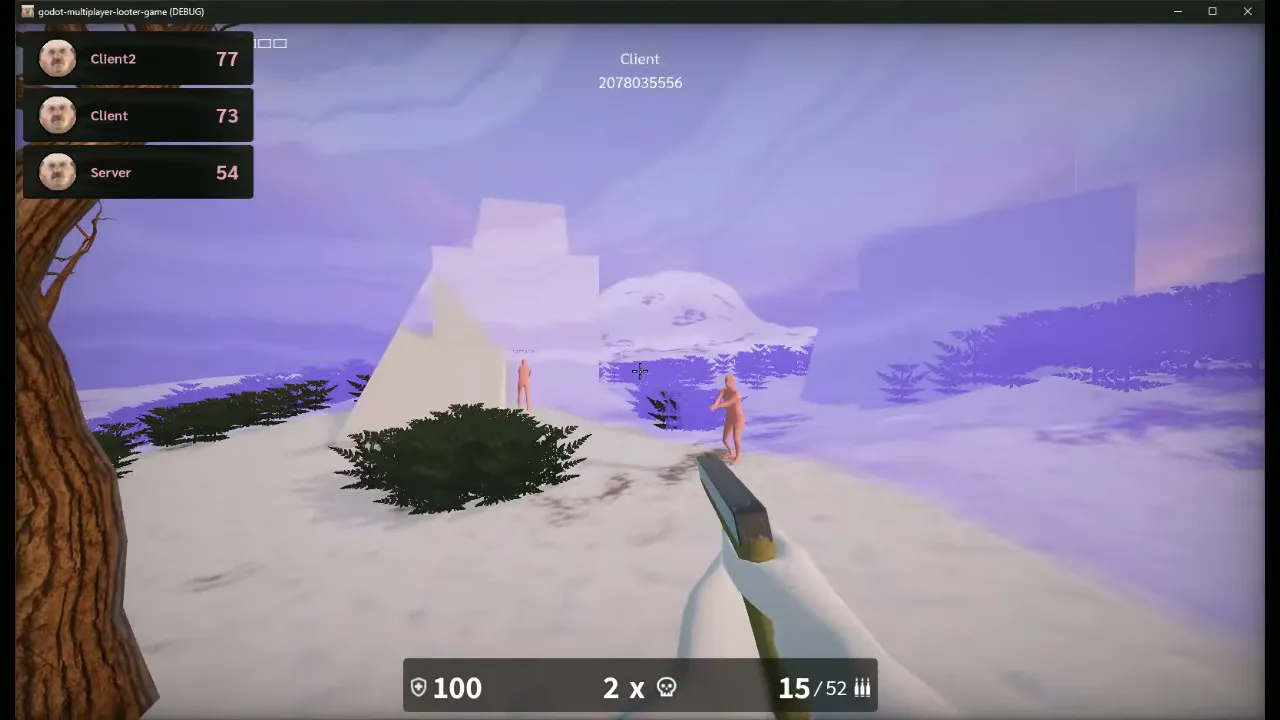
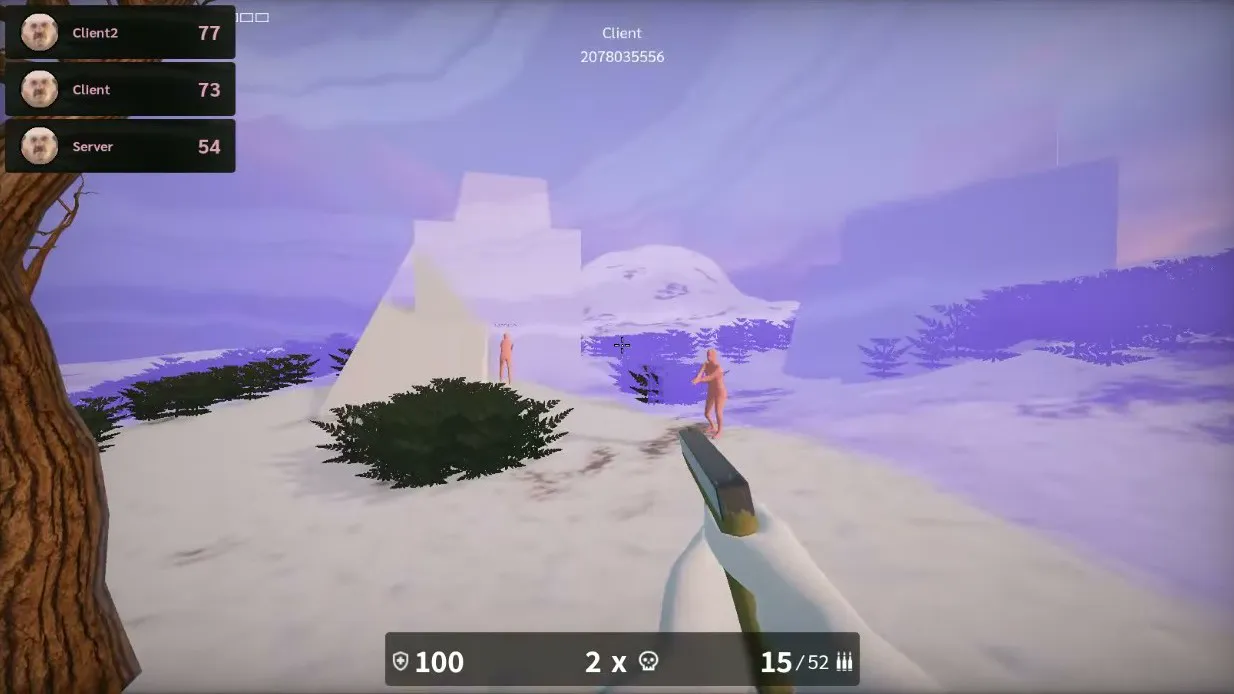
Added texts, small UI changes

diff --git a/src/app.css b/src/app.css
@@ -74,7 +74,7 @@ body::before {
   --color-2: color-mix(in oklch,
       var(--colors-elevation-0),
       var(--colors-secondary) 12%);
-/*
+  /*
   --color-1: oklch(from var(--colors-secondary) 0.25 0.015 h);
   --color-2: oklch(from var(--colors-primary) 0.25 0.015 h); */
 
@@ -82,7 +82,7 @@ body::before {
       var(--color-1) 0%,
       var(--color-2) 100%);
 
-/*   background: oklch(from var(--colors-primary) 0.18 0.015 h); */
+  /*   background: oklch(from var(--colors-primary) 0.18 0.015 h); */
 }
 
 ::selection {
@@ -90,6 +90,18 @@ body::before {
   /* Highlight background */
   color: var(--colors-white, #ffffff);
   /* Selected text color */
+}
+
+li {
+  line-height: 1.5;
+}
+
+ul {
+  margin: 0;
+  padding: 0;
+  margin-top: 0.25em;
+  margin-bottom: 0.75em;
+  padding-left: 2rem;
 }
 
 .app-shell {
@@ -141,31 +153,36 @@ h6,
 }
 
 /* H1 / XXL: 2.341rem (37.45px) → 3.5rem (56px) */
-h1, .h1 {
+h1,
+.h1 {
   font-size: clamp(var(--font-sizes-xxl), 1.814rem + 2.25vw, 3.5rem);
   line-height: 1.1;
 }
 
 /* H2 / XL: 1.73rem (27.68px) → 2.2rem (35.2px) */
-h2, .h2 {
+h2,
+.h2 {
   font-size: clamp(var(--font-sizes-xl), 1.516rem + 0.912vw, 2.2rem);
   line-height: 1.15;
 }
 
 /* H3 / LG: 1.463rem (23.41px) → 1.9rem (30.4px) */
-h3, .h3 {
+h3,
+.h3 {
   font-size: clamp(var(--font-sizes-lg), 1.264rem + 0.848vw, 1.9rem);
   line-height: 1.2;
 }
 
 /* H4 / MD: 1.25rem (20px) → 1.75rem (28px) */
-h4, .h4 {
+h4,
+.h4 {
   font-size: clamp(var(--font-sizes-md), 1.023rem + 0.97vw, 1.75rem);
   line-height: 1.25;
 }
 
 /* H5 / SM: 1rem (16px) → 1.375rem (22px) */
-h5, .h5 {
+h5,
+.h5 {
   font-size: clamp(var(--font-sizes-sm), 0.83rem + 0.728vw, 1.375rem);
   line-height: 1.3;
 }

diff --git a/src/routes/contact/+page.svelte b/src/routes/contact/+page.svelte
@@ -8,7 +8,7 @@
 
 <div class="info-container h-padding">
   <div class="info">
-    <div style="width: 100%; margin-left: 1rem;">
+    <div>
       <h2 class="view-title no-bg">Yhteystiedot</h2>
     </div>
     <ProfileCircle imageSrc={"/images/me (Small).png"} outlined />
@@ -60,21 +60,23 @@
   .contact-buttons {
     container-type: inline-size;
     width: 100%;
-    padding: 0 .5rem;
+    padding: 0 0.5rem;
   }
 
   .find-me-text {
-    width: 100%;
+    /*     width: 100%; */
+    width: max-content;
     padding: 0 1rem;
   }
   .title-buttons-container {
     display: flex;
     flex-direction: column;
+    align-items: center;
     gap: 0.5rem;
     width: 100%;
     > span {
       /*       background-color: green; */
-      width: 100%;
+/*       width: 100%; */
     }
   }
 </style>

diff --git a/src/lib/components/MenuOptions.svelte b/src/lib/components/MenuOptions.svelte
@@ -19,7 +19,7 @@
       </label>
     </div>
   </li>
-  <li class="menu-item">
+<!--   <li class="menu-item">
     <div class="menu-option">
       <label for="animations-checkbox">
         <span>Käytä ääniä</span>
@@ -32,7 +32,7 @@
         <div class="checkbox"></div>
       </label>
     </div>
-  </li>
+  </li> -->
 </ul>
 
 <style>

diff --git a/src/lib/components/DropdownButton.svelte b/src/lib/components/DropdownButton.svelte
@@ -165,8 +165,8 @@
 
   .menu {
     display: none;
-    width: 100vw;
-    max-width: 20rem;
+/*     width: 100vw; */
+    width: clamp(15rem, 30vw + 5rem, 25rem);
     background-color: var(--colors-elevation-2);
     border: 2px solid
       color-mix(

diff --git a/src/lib/config/tags.ts b/src/lib/config/tags.ts
@@ -68,6 +68,11 @@ export const TAG_CONFIG: Record<string, TagConfig> = {
     label: 'MongoDB',
     bg: '#00ed64',
     icon: "Mongodb"
+  },
+  blender: {
+    label: 'Blender',
+    bg: '#ea7600',
+    icon: "Blender"
   }
 };
 

diff --git a/src/routes/projects/[slug]/+page.svelte b/src/routes/projects/[slug]/+page.svelte
@@ -196,6 +196,7 @@
     padding: 1rem;
     border-radius: var(--border-radiuses-lg);
     margin-top: 1rem;
+    margin-bottom: 1rem;
 
     grid-template-columns: 1fr;
     column-gap: 1rem;

diff --git a/src/types/icon-names.d.ts b/src/types/icon-names.d.ts
@@ -2,6 +2,7 @@
 
 export const iconNames = [
   "ArrowNarrowLeft",
+  "Blender",
   "BrandGithub",
   "BrandLinkedin (1)",
   "CaretDown",

diff --git a/src/content/projects/factory.md b/src/content/projects/factory.md
@@ -1,31 +1,116 @@
 ---
 title: "Factory"
 slug: "factory"
-description: "P2P verkkoräiskintäpeli, johon haettu inspiraatiota Source-peleistä."
+description: "P2P-verkkoräiskintäpeli, johon haettu inspiraatiota Source-peleistä."
 thumbnail: "/images/factory/factory-thumb.webp"
-tags: ["Godot"]
+tags: ["Godot", "Blender", "FL Studio"]
 isShowcased: true
 date: "2025"
 ---
 
 <script lang="ts">
     import VideoPlayer from '$lib/components/VideoPlayer.svelte';
+    import Summary from "$lib/components/Summary.svelte";
+
+    const summaryData = [
+  {
+    title: "Mikä kyseessä",
+    content: "Godot-pelimoottorilla kehitteillä oleva FPS-moninpeli, joka ammentaa pelituntumaa ja mekaniikkoja Source-moottorin peleistä."
+  },
+  {
+    title: "Tavoite",
+    content: "Luoda uudelleenkäytettävä runko tuleville projekteille: sulava liikkumis- ja animaatiojärjestelmä, ase- ja esinepohjat, UI-arkkitehtuuri"
+  },
+  {
+    title: "Verkkokoodi",
+    content: "Server-authoritative -rakenne, jossa hyödynnetään client-side predictionia, reconciliationia, lag compensationia ja entity interpolationia viiveen hallintaan."
+  },
+  {
+    title: "Seuraavat askeleet",
+    content: "Verkkokoodin optimointi korkealle viiveelle, logiikan siirtäminen GDScriptistä C#- kielelle suorituskyvyn parantamiseksi sekä Steam-integraatio."
+  }
+];
 </script>
 
-<VideoPlayer videoSrc="/videos/factory/factory.webm" posterSrc="/images/factory/factory-thumb.webp" description="Testipelailua."  />
+<Summary data={summaryData} />
 
 ## Factory: the Game
 
-Factory on työn alla oleva FPS-peliprojektini. Hain inspiraatiota projektiin Source-peleistä (CS, Half-Life jne.), koska olen aina pitänyt niiden pelituntumasta. Otin haasteeksi tehdä pelistä moninpelin yrittäen kopioida hyviä ja vakiintuneita käytänteitä Source-pohjaisista peleistä.
+Factory on työn alla oleva FPS-peliprojektini, johon olen hakenut inspiraatiota Source-pelimoottoria käyttävistä peleistä (kuten Counter Strike ja Half-Life), sillä olen aina pitänyt niiden pelituntumasta. Otin haasteekseni toteuttaa pelin moninpelinä ja halusin implementoida siihen Source-peleistä tuttuja ratkaisuja ja verkkomekaniikoita. Valitsin pelimoottoriksi <a href="https://godotengine.org/">Godotin</a> sen keveyden ja avoimen lähdekoodin takia.
 
-Lähdin toteuttamaan peliin server authoratitive -rakennetta. Tämä tarkoittaa sitä että serverillä on ehdoton päätösvalta pelin tapahtumiin. Serveriin yhdistänyt clientti ei siis lähetä omia sijaintitietojaan serverille vaan se lähettää sille näppäimistö- ja hiirisyötteensä, ja serveri laskee sitten lopputuloksen ja palauttaa sen clientille. Clientit eivät kuitenkaan odota vastauksia, koska niiden odottelu johtaisi todella katkonaiseen ja siten epämiellyttävään pelikokemukseen viiveen takia. Client side predictionin mukaisesti pelaajan liikkumiseen liittyvä koodi – sama kuin serverillä – ajetaan lokaalisti peliclientissä ja pelaaja liikkuu näytöllä sen laskelmien mukaan. Jos sitten pelaajan sijainti ylittää tietyn thresholdin eli sijainti poikkeaa serverin laskemasta sijainnista, sijainti korjataan mahdollisimman huomaamattomasti (serveillä päätösvalta). Tietystä pelisessioista on siis olemassa useampi versio: serverin headless-versio (totuus) ja peliclienttien omat hieman eri ajoissa olevat näkemykset.
+<VideoPlayer videoSrc="/videos/factory/factory.webm" posterSrc="/images/factory/factory-thumb.webp" description="Testipelailua."  />
 
-Tavoitteena että ohjattajan hahmon liikkuminen olisi mahdollisimman miellyttävän ja ohjattavan tuntuista.
+### Tavoite
 
-- pohja, josta voisi myöhemmin laajentaa itse idean synnyttyä
+Tavoitteenani on rakentaa toimiva pelipohja, jota voin hyödyntää tulevissa projekteissani. Pohjaa varten toteutan seuraavat ominaisuudet:
 
-Mitä sitten?
+<ul>
+    <li>Pelihahmon miellyttävän ja sulavan tuntuinen liikkuminen</li>
+        <ul>
+            <li>Perusliikkuminen</li>
+            <li>Hyppääminen</li>
+            <li>Kyykyssä kävely</li>
+            <li>Kyykkyssä hyppääminen</li>
+            <li>Animaatiojärjestelmä liikkumiselle</li>
+        </ul>
+    <li>Ase- ja esinejärjestelmät</li>
+        <ul>
+            <li>Aseiden "spray patternit"</li>
+            <li>Uudelleenkäytettävä asepohja</li>
+            <li>Uudelleenkäytettävä esinepohja<span class="cross">✖</span></li>
+        </ul>
+    <li>Verkkokoodi ja pelitapahtumien replikointi</li>
+        <ul>
+            <li>Authoritative Server</li>
+            <li>Client-side Prediction</li>
+            <li>Reconciliation</li>
+            <li>Lag Compensation<span class="cross">✖</span></li>
+            <li>Entity Interpolation</li>
+        </ul>
+    <li>Käyttöliittymän perusrakenteet ja logiikka</li>
+        <ul>
+            <li>UI State Machine</li>
+            <li>Uudelleenkäytettävät UI-elementit</li>
+        </ul>
+    <li>Ympäristö- ja hahmoäänet</li>
+</ul>
 
-Network-koodin debugaaminen, siirto gdscript-->c#.
+Nämä ominaisuudet on jo jossain määrin saatettu alulle, mutta viilausta tarvitaan vielä paljon. <span class="cross">✖</span>-merkillä merkittyjä asioita ei ole vielä toteutettu ollenkaan.
 
-Netfox, mutta kiehtoo ajatus itse toteuteusta koodista (halu oppia). Steam-integraatio.
+## Verkkokoodista...
+
+### 1. Serverin päätösvalta
+
+Lähdin toteuttamaan peliin <b>server authoritative</b> -rakennetta. Tämä tarkoittaa sitä että serverillä on ehdoton päätösvalta pelin tapahtumiin ja se ei luota clienttiin. Serveriin yhdistänyt clientti ei siis lähetä omia sijaintitietojaan serverille vaan se lähettää sille näppäimistö- ja hiirisyötteensä, joiden perusteella serveri laskee sitten lopputuloksen ja palauttaa sen clientille.
+
+### 2. Client Side Prediction
+
+Clientit eivät kuitenkaan odota vastauksia, koska niiden odottelu johtaisi todella katkonaiseen ja siten epämiellyttävään pelikokemukseen viiveen takia. <b>Client side predictionin</b> mukaisesti pelaajan liikkumiseen liittyvä koodi – joka on sama kuin serverillä – ajetaan lokaalisti peliclientissä ja pelaaja liikkuu näytöllä sen laskelmien mukaan. <br>
+
+Jos pelaajan sijainti sitten ylittää tietyn thresholdin eli sijainti poikkeaa serverin laskemasta sijainnista riittävän paljon, sijainti korjataan mahdollisimman huomaamattomasti. Korjaus tapahtuu <b>Server Reconciliation</b> -menetelmällä: yhden ruudunpäivityksen aikana pelaaja teleportataan korjattuun sijaintiin, jonka jälkeen pelaajan aikaisemmat syötteet ajetaan nykyhetkeen asti. Tämä minimoi korjauksesta aiheutuvaa visuaalista häiriötä pelaajalle.
+
+### 3. Lag Compensation
+
+Kun pelaaja ampuu liikkuvaa vastustajaa, todellisuudessa hän saattaa ampua hänestä ohi, sillä viiveen takia pelaaja näkee toisen pelaajan vanhassa sijainnissa. Vastustaja voi siis oikeasti olla liikkunut ruudulla jo 50 pikseliä aseen lauetessa. Kun pelaaja ei sitten osu vastustajaan – joka oli varmasti nalkissa – hän turhautuu. Tämän takia tarvitaan <b>Lag Compensaatiota</b>.<br>
+
+Lag Compensaatio toimii niin että serveri pitää kirjaa clienttien viiveistä ja puskuroi pelaajien sijainnit. Kun jokin pelaaja tekee operaation, jolla voi olla vaikutusta toiseen pelaajaan (esimerkiksi ampuu), serveri menee historiassa taaksepäin ampuneen pelaajan viiveen verran ja suorittaa ampumisen. Näin pelaaja osuu kohteeseensa viiveestä huolimatta.
+
+### 4. Entity Interpolation
+
+Serverin päivitysnopeudesta johtuen pelaaja näkee ruudullaan liikkuvat viholliset katkonaisesti. Jos pelaajan ruutu päivittyy esim. 144 kertaa sekunnissa ja serveri lähettää tietoa esim. 32 kertaa sekunnissa, pelaajat liikkuvat ikään kuin teleportaten pieniä matkoja. Tämän takia toisten pelaajien sijainnit ja rotaatio täytyy interpoloida eli vanha sijainti saattaa uuteen sijaintiin vähitellen. Interpolointi lisää viivettä entisestään, mutta sen hyödyntäminen on väistämäntöntä pelikokemuksen kannalta.
+
+Tietystä pelisessioista on siis olemassa useampi versio: serverin headless-versio (kaiken totuus) ja peliclienttien omat toisistaan jonkin verran eroavat näkemykset.
+
+## Mitä seuraavaksi?
+
+Vielä on paljon, paljon tehtävää. Verkkokoodia täytyy debugata, koska korkeammalla viivellä pelaavien pelaajien sijaintien korjaus on liian häiritsevää. Verkkokoodi on tällä hetkellä koodattu Godotin omalla GDScriptillä. Sen muuttaminen C#-koodiksi voisi tuoda suorituskykyparannuksia. Steam-integraatio olisi järkevä toteuttaa, jolloin pelaajien ei tarvitsisi jakaa IP-osoitteita toisilleen voidakseen pelata. Tähän on ilmeisesti olemassa Godot Steam -laajennus.
+
+<style>
+    .cross {
+        padding: 0 0.25em;
+        border-radius: var(--border-radiuses-sm);
+        background-color: var(--colors-error);
+        margin: 0 0.25rem;
+    }
+
+</style>

diff --git a/src/content/projects/kuluku.md b/src/content/projects/kuluku.md
@@ -10,16 +10,15 @@ date: "2026"
 
 ## Mistä projekti sai alkunsa?
 
-Olimme jo pitkään miettineet ystäväni kanssa, että voisimme yhdistää voimamme ja alkaa työstämään pykäkää laajempaa projektia. Aiemmat projektini olivat olleet kokoluokaltaan pienempiä, joten mahdollisuus syventyä kookkaampaan kokonaisuuteen yhdessä toisen kehittäjän kanssa tuntui innostavalta. Yhteistyö tarjosi loistavan tilaisuuden haastaa omaa osaamista ja oppia uusia teknologioita. Ystävälläni oli tässä vaiheessa jo useamman vuoden kokemus alalta, mistä olisi merkittävä hyöty projektin ja oman oppimisen kannalta.
+Olimme jo pitkään miettineet ystäväni kanssa, että voisimme yhdistää voimamme ja alkaa työstämään pykäkää laajempaa projektia. Aiemmat projektini olivat olleet kokoluokaltaan pienempiä, joten mahdollisuus syventyä kookkaampaan kokonaisuuteen yhdessä toisen kehittäjän kanssa tuntui innostavalta. Yhteistyö tarjosi loistavan tilaisuuden haastaa itseä ja oppia uusia teknologioita. Ystävälläni oli tässä vaiheessa jo useamman vuoden kokemus alalta, mistä olisi merkittävä hyöty projektin ja oman oppimisen kannalta.
 
 ### Ajoneuvojen markkinapaikka (Kuluku)
 
-Pohtiessamme nettisivun ideaa huomasimme että Suomessa ei ole montaa palvelua, jotka mahdollistaisivat autojen myynnin yksityishenkilöltä toiselle. Lähdimme rakentamaan nettisivua siis siltä pohjalta, että siellä voisi myydä ja ostaa käytettyjä autoja. Myöhemmin laajensimme ideaa niin että muidenkin kulkupelien – kuten pyörien ja työkoneiden – myyminen olisi mahdollista sivulla. Tämä toisi mukavasti haastetta tietokannan ja frontendin suunnitteluun. Haastetta antaisi myös käyttäjätilien ja niihin liittyvien perusominaisuuksien luonteva ja tietoturvallinen toteutus.
+Pohtiessamme nettisivun ideaa huomasimme että Suomessa ei ole montaa palvelua, jotka mahdollistaisivat autojen myynnin yksityishenkilöltä toiselle. Lähdimme rakentamaan nettisivua siis siltä pohjalta, että siellä voisi myydä ja ostaa käytettyjä autoja. Myöhemmin laajensimme ideaa niin että muidenkin kulkupelien – kuten pyörien ja työkoneiden – myyminen olisi mahdollista sivulla. Tämä toisi mukavasti haastetta frontendin, backendin ja tietokannan suunnitteluun. Haastetta antaisi myös käyttäjätilien ja niihin liittyvien perusominaisuuksien luonteva ja tietoturvallinen toteutus.
 
 ## Toiminnallisuus
 
-Jotta sivu olisi toimiva, täytyi toteuttaa perusominaisuudet:
-
+Jotta sivu olisi toimiva, täytyi toteuttaa perusominaisuuksia:
 <ul>
     <li>Uuden tilin luonti ja sähköpostiosoiteen vahvistus</li>
     <li>Sisäänkirjautuminen</li>
@@ -27,18 +26,26 @@ Jotta sivu olisi toimiva, täytyi toteuttaa perusominaisuudet:
     <li>Omien tietojen muokkaaminen (perustiedot, salasana, sähköpostiosoite jne.)</li>
 </ul>
 
-Luonnollisesti toiminnallisuuksia täytyi myös rajoittaa vain kirjautuneille käyttäjille. Näitä omainaisuuksia ovat:
-
+Luonnollisesti toiminnallisuuksia täytyi myös rajoittaa ainoastaan kirjautuneille käyttäjille. Näitä ominaisuuksia ovat:
 <ul>
     <li>Ilmoitusten luonti ja hallinnointi</li>
     <li>Suosikit</li>
-    <li>Viestittely myyjien ja potentiaalisten ostajien kanssa</li>
+    <li>Viestittely myyjien ja kiinnostuneiden ostajien kanssa</li>
 </ul>
 
-Kehittäminen mobiililähtöisesti, jotta ilmoitusten luominen olisi helppoa ja suoraviivaista kännykällä. Eli suunnittelu niin että ensin elementit mobiilikoossa ja ikkunan laajentuessa työpöytäkoossa.
+Sivulla on myös jotain QoL-ominaisuuksia:
+<ul>
+    <li>Kielen vaihto suomen, ruotsin ja englannin välillä <br> (käyttäjän osoitepolku säilyy kielenvaihdon yhteydessä).</li>
+    <li>Tumma ja vaalea teema, joka määräytyy käyttäjän mieltymysten mukaan</li>
+</ul>
+
+
+Sovellus on kehitetty mobiililähtöisesti, jotta ilmoitusten selaaminen ja luominen olisi mahdollisimman helppoa ja suoraviivaista puhelimella. Käyttöliittymä on siis suunniteltu ensin mobiilinäytöille, ja se mukautuu saumattomasti laajemmille työpöytänäkymille ruudun koon kasvaessa.
 
 ## Teknologiavalinnat
 
-Valitsimme frontendiksi molemmille entuudestaan tutun Reactin. Backend-ratkaisuksi ja tietokannaksi valikoituivat .NET sekä Microsoft SQL Server. Projektikumppanillani oli näistä ennestään kokemusta, ja ne tarjosivat projektille luotettavan sekä tuotantovalmiin pohjan. Sähköpostiviestinnän testaamiseen valitsimme Mailhog-ohjelman Näillä teknologiavalinnoilla käynnistimme Kuluku-projektin.
+Valitsimme frontendiksi molemmille entuudestaan tutun Reactin. Backend-ratkaisuksi ja tietokannaksi valikoituivat .NET sekä Microsoft SQL Server. Projektikumppanillani oli näistä ennestään kokemusta, ja ne tarjosivat projektille tuotantovalmiin pohjan. Sähköpostiviestinnän testaamiseen valitsimme Mailhog-ohjelman.
 
-## Otsikko
+## Docker
+
+## Mitä seuraavaksi?

diff --git a/src/content/projects/ouluni.md b/src/content/projects/ouluni.md
@@ -50,13 +50,13 @@ Minulla oli päävastuu sivuston visuaalisesta ilmeestä, käyttöliittymäsuunn
 
 ## Keskeiset toiminnallisuudet
 
-### Places-näkymä
+### 1. Places-näkymä
 
 Käyttäjät voivat hakea ja suodattaa sijainteja hakukentällä tai kategoriapainikkeilla (esim. <i>Attractions, Restaurants, Campuses</i>). Sijainnit näkyvät listana näkymässä. <i>View</i>-painike avaa <i>popover</i>-ikkunan, joka tarjoaa lisätietoa kohteesta ja mahdollistaa siirtymisen suoraan karttanäkymään.
 
 <VideoPlayer videoSrc="/videos/ouluni/ouluni-places.webm" posterSrc="/images/ouluni/thumb.png" description="Places-näkymä."  />
 
-### Karttanäkymä
+### 2. Karttanäkymä
 
 Kartta kokoaa yhteen opiskelijalle olennaiset sijainnit. Oikean alakulman <i>My location</i> -painikkeella voi paikantaa oman sijainnin. Samasta kulmasta löytyvällä <i>Show filters</i> -painikkeella karttaa voi suodattaa tarpeen mukaan, ja karttamerkkejä klikkaamalla avautuvat kohteen tarkemmat tiedot näytön vasempaan reunaan. Avautuneen sivunäkymän <i>Navigate to</i> -painikkeella käyttäjä voi myös siirtyä varsinaiselle Google Maps -sivustolle ja aloittaa navigoinnin kohteeseen välittömästi.
 

diff --git a/src/content/projects/friba.md b/src/content/projects/friba.md
@@ -1,8 +1,8 @@
 ---
-title: "friba-performance-tracker"
-slug: "friba-performance-tracker"
+title: "friba"
+slug: "friba"
 description: "Frisbeegolf-tulosapplikaatio, jossa voit seurata kehittymistäsi."
-thumbnail: "/images/processed/friba-thumb.webp"
+thumbnail: "/images/friba/friba-thumb.webp"
 tags: ["Flutter"]
 date: "2021"
 ---
